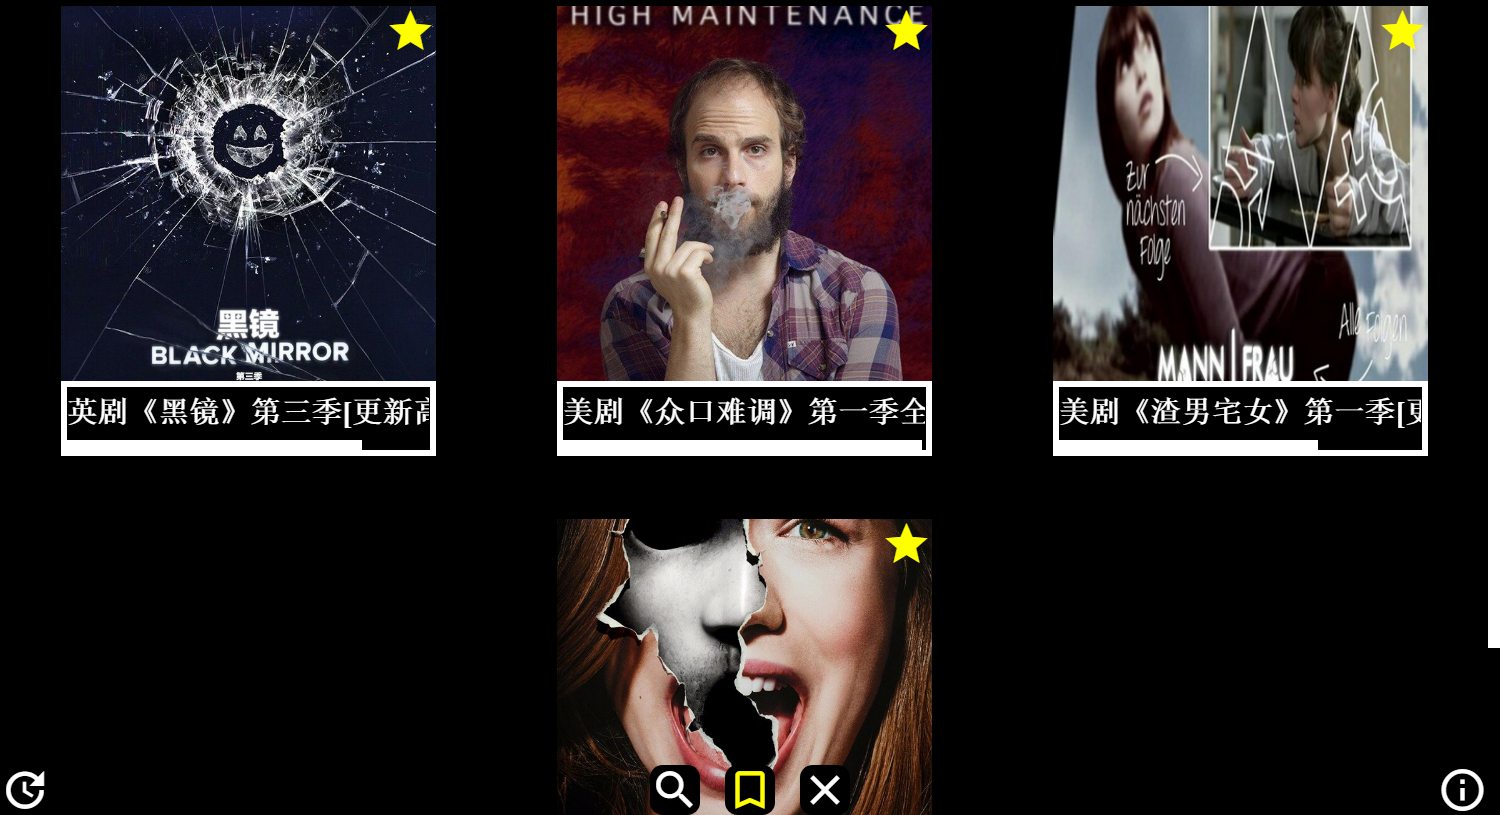
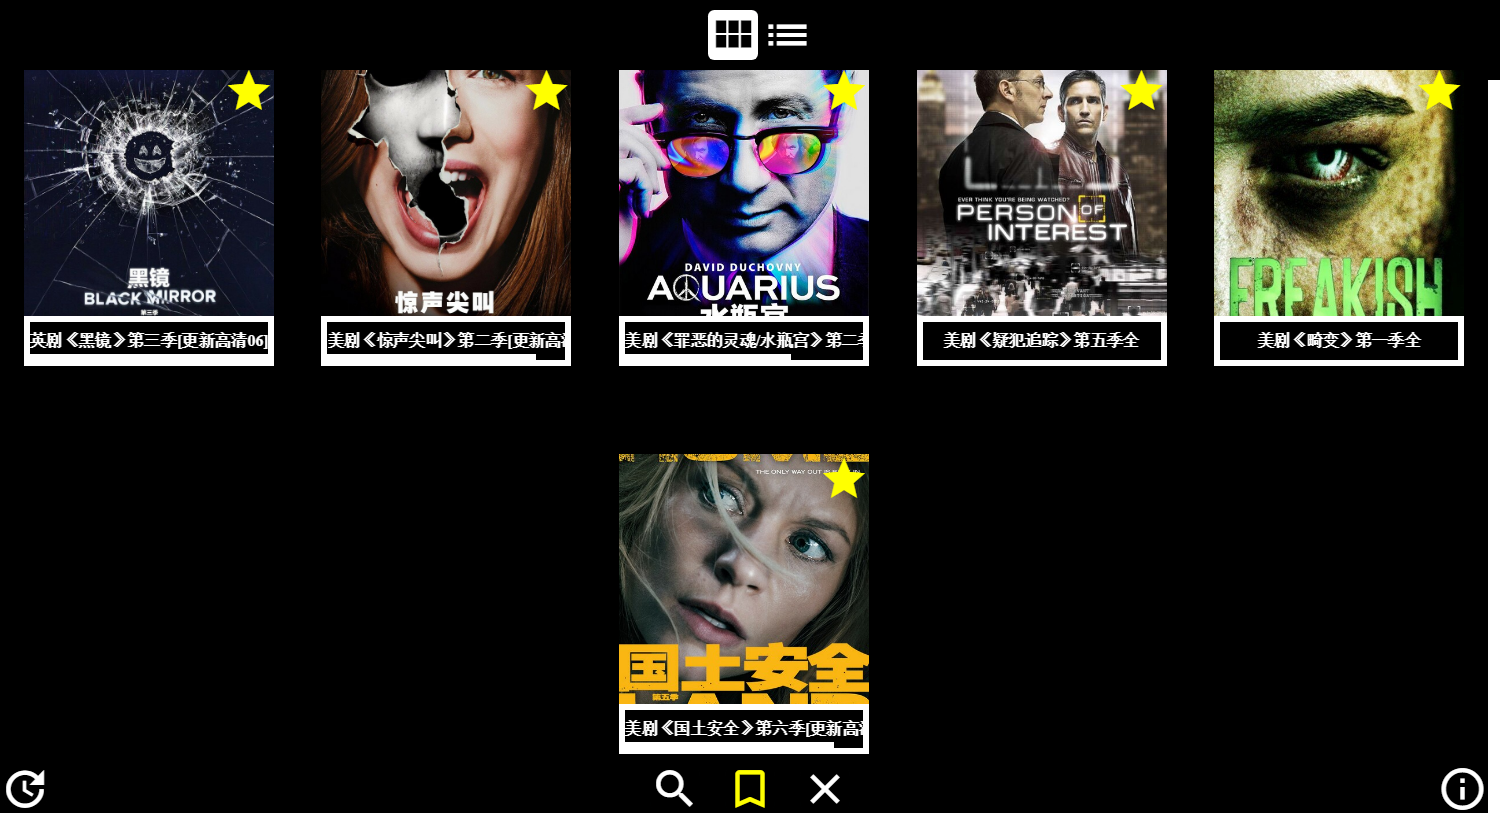
fix README

diff --git a/README.md b/README.md
@@ -2,12 +2,6 @@
 
 A desktop app for finding drama resource
 
-## ScreenShot
-
-<p align="center">
-  <img src="https://github.com/yrq110/DramaOldDriver-client/blob/master/static/screenshots/homepage.png" width="700px">
-</p>
-
 ## Download
 
 [Releases](https://github.com/yrq110/DramaOldDriver/releases)
@@ -31,6 +25,14 @@ npm run build
 ```
 
 ## Function
+
+* Card View
+
+![](https://github.com/yrq110/DramaOldDriver-client/blob/master/static/screenshots/card-view.png)
+
+* List View
+
+![](https://github.com/yrq110/DramaOldDriver-client/blob/master/static/screenshots/list-view.png)
 
 * Real-time Search
 
